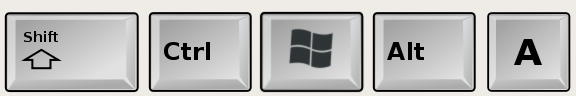
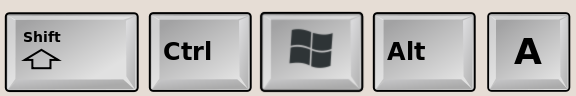
Fixed defect 23, the debian file doesn't work. I've made the default have no chrome (in config.py) I've made build_all.py more robust (fails if things aren't installed) Make build_all.py kill the config for every screenshot. Rebuilt the screenshots as a side effect.

diff --git a/build_all.py b/build_all.py
@@ -63,14 +63,24 @@ def BuildDeb(ver):
   old_cwd = os.getcwd()
   os.chdir('dist')
   try:
-    subprocess.call([
+    ret = subprocess.call([
       'fakeroot', 'alien', rpm_file])
+    if ret:
+      print 'You man need to install fakeroot and/or alien'
+      print 'Failed to build debian package'
+      sys.exit(-1)
+      return
   except Exception, e:
     print 'You may need to install fakeroot and/or alien', e
     os.chdir(old_cwd)
     sys.exit(-1)
   os.chdir(old_cwd)
   print 'Built debian package'
+
+def KillConfig():
+  config_file = os.path.expanduser('~/.key-mon/config')
+  if os.path.exists(config_file):
+    os.unlink(config_file)
 
 def BuildScreenShots():
   prog = 'src/keymon/key_mon.py'
@@ -85,10 +95,11 @@ def BuildScreenShots():
     ('2x-no-mouse-meta', ['--nomouse', '--scale', '2.0', '--meta'], all_buttons + ['KEY_LEFTMETA']),
   ]
   for fname, options, keys in todos:
+    KillConfig()
     subprocess.call([
       'python', prog] + options + ['--screenshot', ','.join(keys)])
     shutil.move('screenshot.png', os.path.join(destdir, fname + '.png'))
-
+  KillConfig()
 
 if __name__ == '__main__':
   ver = VerifyVersions()

diff --git a/src/keymon/config.py b/src/keymon/config.py
@@ -76,7 +76,7 @@ _config = None
 _defaults = {
     # User interface options
     "ui": {
-        "decorated": "1",
+        "decorated": "0",
         "opacity": "0.9",
         "scale": "1.0",
         "theme": "classic",

diff --git a/src/keymon/key_mon.py b/src/keymon/key_mon.py
@@ -8,7 +8,7 @@ Shows their status graphically.
 """
 
 __author__ = 'Scott Kirkwood (scott+keymon@forusers.com)'
-__version__ = '0.14.1'
+__version__ = '0.14.2'
 
 import logging
 import pygtk

diff --git a/setup.py b/setup.py
@@ -3,7 +3,7 @@
 from distutils.core import setup
 
 NAME='key-mon'
-VER='0.14.1'
+VER='0.14.2'
 setup(
     name = NAME,
     version = VER,
